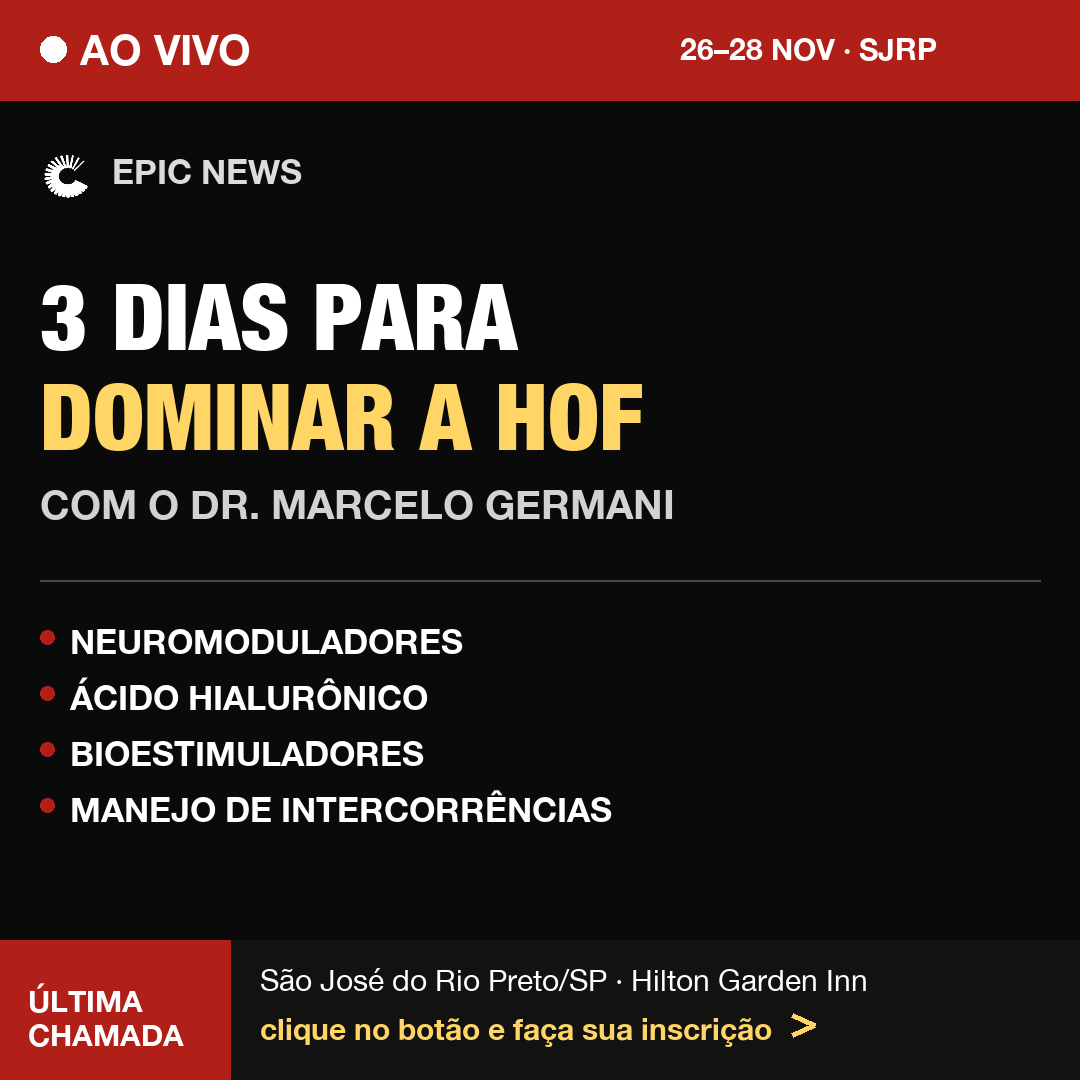
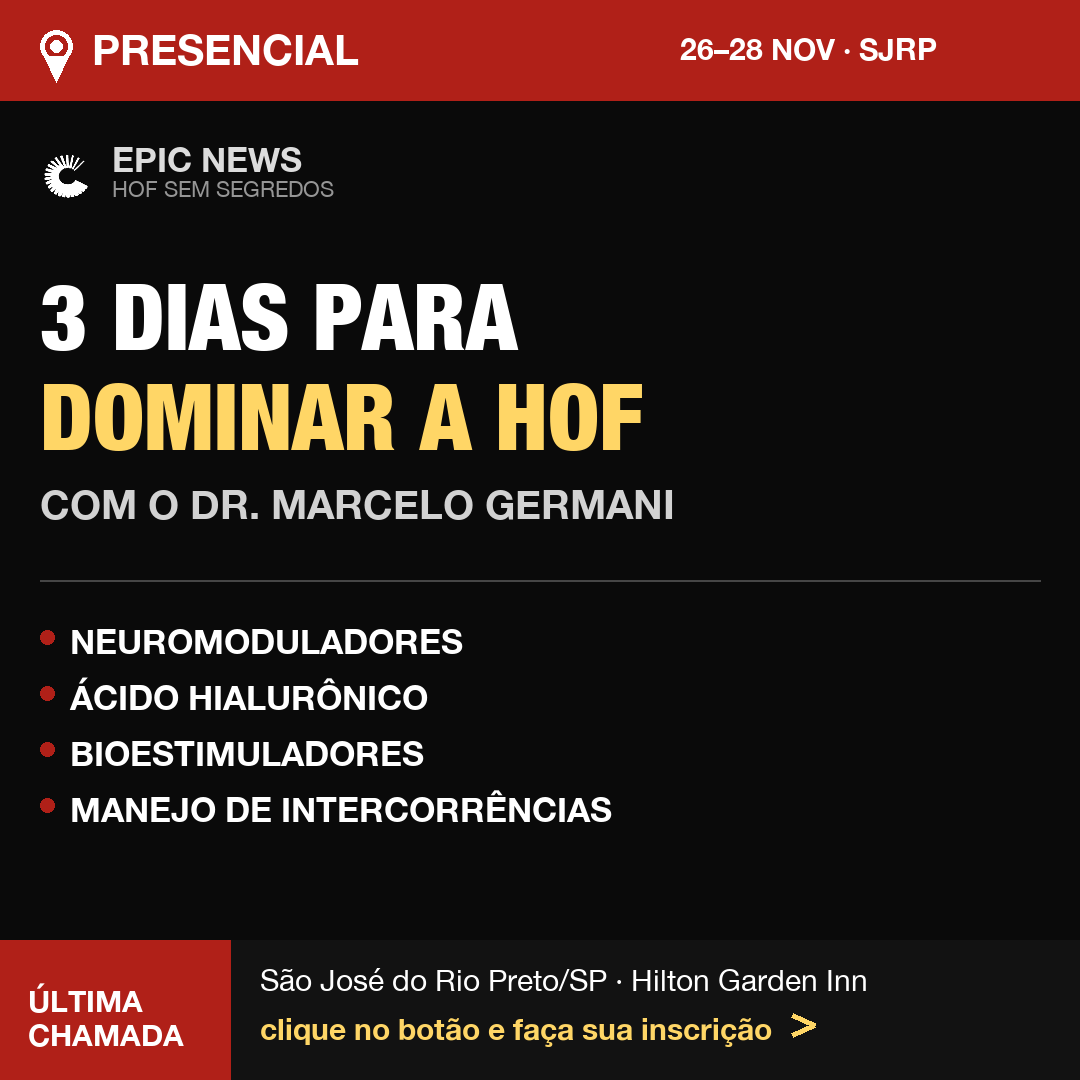
HOF: deixa marca HOF explicita no tweet/poster/whatsapp e troca AO VIVO por PRESENCIAL no news (EPIC Nov/26)

Changed region(s): [[0.0917, 0.1222, 0.3056, 0.1833], [0.0306, 0.0306, 0.3361, 0.0917]]

diff --git a/hof/epic-nov26-criativos/index.html b/hof/epic-nov26-criativos/index.html
@@ -244,7 +244,7 @@ h1{font-size:clamp(32px,4.6vw,46px);line-height:1.05;letter-spacing:-.015em}
       <a class="conc-img" href="/criativos/hof-epic-nov26/EPICX_NEWS.png" target="_blank" rel="noopener"><img src="/criativos/hof-epic-nov26/EPICX_NEWS.png" alt="Conceito breaking news" loading="lazy"></a>
       <div class="conc-body">
         <h4>4 · Breaking news / última chamada</h4>
-        <p>Linguagem de telejornal — faixa vermelha "AO VIVO", tipografia condensada em caixa alta, rodapé tipo ticker de notícia. Formato 1080×1080, EPICX_NEWS.png.</p>
+        <p>Linguagem de telejornal — faixa vermelha "PRESENCIAL" com pino de localização, tipografia condensada em caixa alta, rodapé tipo ticker de notícia. Formato 1080×1080, EPICX_NEWS.png.</p>
       </div>
     </article>
 
